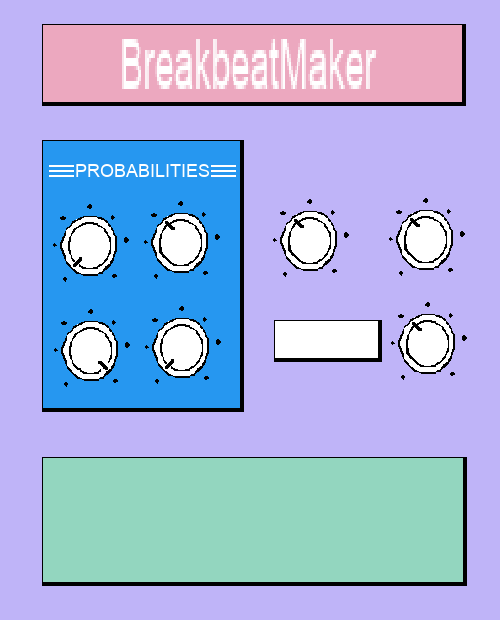
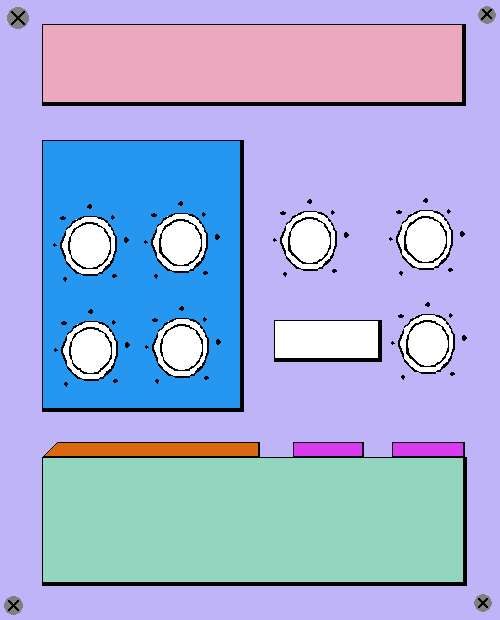
UI::Everything in its right place

diff --git a/code/applications/breakbeat_machine/BreakbeatMaker.cpp b/code/applications/breakbeat_machine/BreakbeatMaker.cpp
@@ -23,6 +23,19 @@ BreakbeatContentComponent::BreakbeatContentComponent(juce::AudioDeviceManager& a
 , mRetriggerSampleProbabilitySlider("Retrigger slice", "%", 0.3)
 , mRecentFiles(recentFiles)
 {
+    LookAndFeel::getDefaultLookAndFeel().setDefaultSansSerifTypefaceName("Retro Gaming");
+    
+    Font titleFont(getLookAndFeel().getLabelFont (mApplicationTitle));
+    titleFont.setHeight(42);
+    titleFont.setTypefaceName("Retro Gaming");
+    mApplicationTitle.setFont(titleFont);
+    addAndMakeVisible(mApplicationTitle);
+    
+    Font probabilityFont(getLookAndFeel().getLabelFont(mProbabilityTitle));
+    probabilityFont.setHeight(35);
+    mProbabilityTitle.setFont(probabilityFont);
+    addAndMakeVisible(mProbabilityTitle);
+    
     addAndMakeVisible(mSliceTypeCombobox);
     mSliceTypeCombobox.comboBox.addItem("Div", 1);
     mSliceTypeCombobox.comboBox.addItem("Transient", 2);
@@ -235,27 +248,27 @@ BreakbeatContentComponent::BreakbeatContentComponent(juce::AudioDeviceManager& a
     
     addAndMakeVisible(mSampleDesiredLengthSeconds);
     mSampleDesiredLengthSeconds.setNumberOfDecimals(3);
-    mSampleDesiredLengthSeconds.setRange({0.1, 10.0}, juce::NotificationType::dontSendNotification);
-    mSampleDesiredLengthSeconds.onValueChanged = [this](double value)
-    {
-        changeState(TransportState::Stopping);
-        mPlayButton.setEnabled(false);
-        
-        auto const stretchFactor = static_cast<float>(value / mAudioSource.getSliceManager().getFileLength());
-        auto const pitchFactor = static_cast<float>(std::pow(2.0, mPitchShiftSlider.getValue() / 12.0));
-        mAudioSource.getSliceManager().performTimestretch(stretchFactor, pitchFactor, [this]()
-        {
-            mPlayButton.setEnabled(true);
-            mAudioSource.getSliceManager().clearSlices();
-            mAudioSource.getSliceManager().performSlice();
-            mAudioSource.setNextReadPosition(0);
-            updateWaveform();
-        });
-        
-        // TODO: Handle this better
-        mAudioSource.getSliceManager().sanitiseSlices();
-    };
-    
+//    mSampleDesiredLengthSeconds.setRange({0.1, 10.0}, juce::NotificationType::dontSendNotification);
+//    mSampleDesiredLengthSeconds.onValueChanged = [this](double value)
+//    {
+//        changeState(TransportState::Stopping);
+//        mPlayButton.setEnabled(false);
+//
+//        auto const stretchFactor = static_cast<float>(value / mAudioSource.getSliceManager().getFileLength());
+//        auto const pitchFactor = static_cast<float>(std::pow(2.0, mPitchShiftSlider.getValue() / 12.0));
+//        mAudioSource.getSliceManager().performTimestretch(stretchFactor, pitchFactor, [this]()
+//        {
+//            mPlayButton.setEnabled(true);
+//            mAudioSource.getSliceManager().clearSlices();
+//            mAudioSource.getSliceManager().performSlice();
+//            mAudioSource.setNextReadPosition(0);
+//            updateWaveform();
+//        });
+//        
+//        // TODO: Handle this better
+//        mAudioSource.getSliceManager().sanitiseSlices();
+//    };
+//    
     addAndMakeVisible(mStopButton);
     mStopButton.setButtonText("Stop");
     mStopButton.onClick = [this]()
@@ -312,61 +325,23 @@ BreakbeatContentComponent::~BreakbeatContentComponent()
 }
 
 void BreakbeatContentComponent::resized()
-{
-    auto bounds = getLocalBounds();
-    bounds.reduce(20, 20);
+{    
+    mApplicationTitle.setBounds(80, 23, 421, 78);
+    mProbabilityTitle.setBounds(50, 155, 178, 38);
     
-    auto const twoFieldRowElementWidth = bounds.getWidth() / 3;
-    auto const twoFieldRowSpacing = bounds.getWidth() - twoFieldRowElementWidth * 2;
+    mReverseSampleProbabilitySlider.setBounds(44, 198, 92, 92);
+    mRetriggerSampleProbabilitySlider.setBounds(134, 198, 92, 92);
+    mChangeSampleProbabilitySlider.setBounds(44, 302, 92, 92);
     
-    auto const threeFieldRowElementWidth = bounds.getWidth() / 4;
-    auto const threeFieldRowSpacing = static_cast<int>((bounds.getWidth() - threeFieldRowElementWidth * 3) / 2.0);
+    mPitchShiftSlider.setBounds(267, 192, 92, 92);
+    mCrossFadeSlider.setBounds(382, 192, 92, 92);
+    mSliceTypeCombobox.setBounds(267, 319, 108, 42);
+    mSliceDivsorSlider.setBounds(382, 295, 92, 92);
     
-    auto firstRowBounds = bounds.removeFromTop(20);
-    mSliceTypeCombobox.setBounds(firstRowBounds.removeFromRight(static_cast<int>(threeFieldRowElementWidth * 1.5)));
-    
-    bounds.removeFromTop(20);
-    
-    auto secondRowBounds = bounds.removeFromTop(100);
-    mPitchShiftSlider.setBounds(secondRowBounds.removeFromLeft(threeFieldRowElementWidth));
-    secondRowBounds.removeFromLeft(threeFieldRowSpacing);
-    mCrossFadeSlider.setBounds(secondRowBounds.removeFromLeft(threeFieldRowElementWidth));
-    secondRowBounds.removeFromLeft(threeFieldRowSpacing);
-    mSliceDivsorSlider.setBounds(secondRowBounds.removeFromLeft(threeFieldRowElementWidth));
-    mSliceTransientThresholdSlider.setBounds(mSliceDivsorSlider.getBounds());
-    
-    bounds.removeFromTop(20);
-    
-    auto thirdRowBounds = bounds.removeFromTop(100);
-    mChangeSampleProbabilitySlider.setBounds(thirdRowBounds.removeFromLeft(threeFieldRowElementWidth));
-    thirdRowBounds.removeFromLeft(threeFieldRowSpacing);
-    mRetriggerSampleProbabilitySlider.setBounds(thirdRowBounds.removeFromLeft(threeFieldRowElementWidth));
-    thirdRowBounds.removeFromLeft(threeFieldRowSpacing);
-    mReverseSampleProbabilitySlider.setBounds(thirdRowBounds.removeFromLeft(threeFieldRowElementWidth));
-    
-    bounds.removeFromTop(20);
-    
-    auto fourthRowBounds = bounds.removeFromTop(220);
-    mWaveformComponent.setBounds(fourthRowBounds.removeFromTop(200));
-    mFileNameLabel.setBounds(fourthRowBounds.removeFromLeft(twoFieldRowElementWidth));
-    fourthRowBounds.removeFromLeft(twoFieldRowSpacing);
-    mFileSampleRateLabel.setBounds(fourthRowBounds.removeFromLeft(twoFieldRowElementWidth));
-    
-    bounds.removeFromTop(20);
-    
-    auto fifthRowBounds = bounds.removeFromTop(20);
-    mSampleLengthSeconds.setBounds(fifthRowBounds.removeFromLeft(twoFieldRowElementWidth));
-    fifthRowBounds.removeFromLeft(twoFieldRowSpacing);
-    mSampleDesiredLengthSeconds.setBounds(fifthRowBounds.removeFromLeft(twoFieldRowElementWidth));
-    
-    bounds.removeFromTop(20);
-    
-    auto sixthRowBounds = bounds.removeFromTop(20);
-    mPlayButton.setBounds(sixthRowBounds.removeFromLeft(threeFieldRowElementWidth));
-    sixthRowBounds.removeFromLeft(threeFieldRowSpacing);
-    mRecordButton.setBounds(sixthRowBounds.removeFromLeft(threeFieldRowElementWidth));
-    sixthRowBounds.removeFromLeft(threeFieldRowSpacing);
-    mStopButton.setBounds(sixthRowBounds.removeFromLeft(threeFieldRowElementWidth));
+    mFileNameLabel.setBounds(55, 439, 200, 19);
+    mSampleLengthSeconds.setBounds(310, 439, 50, 19);
+    mSampleDesiredLengthSeconds.setBounds(395, 439, 80, 19);
+    mWaveformComponent.setBounds(44, 454, 418, 121);
 }
 
 void BreakbeatContentComponent::paint(juce::Graphics& g)
@@ -449,12 +424,12 @@ void BreakbeatContentComponent::handleAsyncUpdate()
     mFileNameLabel.setText(mAudioSource.getSliceManager().getSampleFileName(), juce::NotificationType::dontSendNotification);
     mFileSampleRateLabel.setText(juce::String(mAudioSource.getSliceManager().getSampleSampleRate()), juce::NotificationType::dontSendNotification);
     
-    mSampleLengthSeconds.setValue(mAudioSource.getSliceManager().getFileLength(), juce::NotificationType::sendNotification);
+    mSampleLengthSeconds.setText(juce::String(mAudioSource.getSliceManager().getFileLength()), juce::NotificationType::sendNotification);
     
     auto const pitchFactor = static_cast<float>(std::pow(2.0, mPitchShiftSlider.getValue() / 12.0));
     mAudioSource.getSliceManager().performTimestretch(1.0f, pitchFactor, [this]()
     {
-        mSampleDesiredLengthSeconds.setValue(mAudioSource.getSliceManager().getBufferLength(), juce::NotificationType::dontSendNotification);
+        mSampleDesiredLengthSeconds.setText(juce::String(mAudioSource.getSliceManager().getBufferLength()), juce::NotificationType::dontSendNotification);
         mPlayButton.setEnabled(true);
         mAudioSource.getSliceManager().performSlice();
         mAudioSource.setNextReadPosition(0);

diff --git a/code/ui/CustomLookAndFeel.cpp b/code/ui/CustomLookAndFeel.cpp
@@ -1,5 +1,22 @@
 #include "CustomLookAndFeel.h"
 
+CustomLookAndFeel::CustomLookAndFeel()
+{
+    setColour (ComboBox::backgroundColourId, Colours::transparentBlack);
+    setColour (ComboBox::buttonColourId, Colours::transparentBlack);
+    setColour (ComboBox::arrowColourId, Colours::white);
+    setColour (ComboBox::textColourId, Colours::black);
+    setColour (ComboBox::outlineColourId, Colours::transparentBlack);
+    
+    setColour (PopupMenu::backgroundColourId, Colours::black);
+    setColour (PopupMenu::highlightedBackgroundColourId, Colours::black);
+    setColour (PopupMenu::highlightedTextColourId, Colours::white);
+    setColour (PopupMenu::textColourId, Colours::white.withAlpha (0.8f));
+    setColour (PopupMenu::headerTextColourId, Colours::white);
+    
+    setDefaultSansSerifTypefaceName("Avenir Next");
+}
+
 void CustomLookAndFeel::drawRotarySlider (juce::Graphics& g,
                                           int x, int y, int width, int height,
                                           float sliderPosProportional,
@@ -9,11 +26,11 @@ void CustomLookAndFeel::drawRotarySlider (juce::Graphics& g,
 {
     auto bounds = juce::Rectangle<float>(x, y, width, height);
     
-    g.setColour(juce::Colour(97u, 18u, 167u));
-    g.fillEllipse(bounds);
-    
-    g.setColour(juce::Colour(255u, 154u, 1u));
-    g.drawEllipse(bounds, 1.0f);
+//    g.setColour(juce::Colour(97u, 18u, 167u));
+//    g.fillEllipse(bounds);
+//
+//    g.setColour(juce::Colour(255u, 154u, 1u));
+//    g.drawEllipse(bounds, 1.0f);
     
     if(auto* rswl = dynamic_cast<RotarySliderWithLabels*>(&slider))
     {
@@ -67,7 +84,7 @@ void RotarySliderWithLabels::paint(juce::Graphics& g)
         r.setSize(g.getCurrentFont().getStringWidth(sliderLabel), getTextHeight());
         r.setCentre(getLocalBounds().getCentre().getX(), 0);
         r.setY(2);
-        g.setColour(juce::Colour(0u, 172u, 1u));
+        g.setColour(juce::Colours::black);
         g.setFont(getTextHeight());
         g.drawFittedText(sliderLabel, r.toNearestInt(), juce::Justification::centred, 1);
         
@@ -85,7 +102,7 @@ void RotarySliderWithLabels::paint(juce::Graphics& g)
     auto center = sliderBounds.toFloat().getCentre();
     auto radius = sliderBounds.getWidth() * 0.5f;
     
-    g.setColour(juce::Colour(0u, 172u, 1u));
+    g.setColour(juce::Colours::black);
     g.setFont(getTextHeight());
     
     auto const numChoices = mLabels.size();
@@ -123,7 +140,7 @@ juce::Rectangle<int> RotarySliderWithLabels::getSliderBounds() const
 
 int RotarySliderWithLabels::getTextHeight() const
 {
-    return 14;
+    return 12;
 }
 
 juce::String RotarySliderWithLabels::getDisplayString() const
@@ -266,7 +283,20 @@ ComboBoxWithLabel::ComboBoxWithLabel(juce::String const& paramName)
     mParamLabel.setText(paramName, juce::NotificationType::dontSendNotification);
     addAndMakeVisible(mParamLabel);
     
+    mParamLabel.setColour(Label::textColourId, juce::Colours::black);
+    
+//    auto curLookAndFeel = comboBox.getLookAndFeel();
+//    curLookAndFeel.
+    
     addAndMakeVisible(comboBox);
+    
+//    auto* rootPopup = comboBox.getRootMenu();
+//    if(!rootPopup)
+//    {
+//        return;
+//    }
+//
+//    rootPopup->setLookAndFeel(<#LookAndFeel *newLookAndFeel#>)
 }
 
 void ComboBoxWithLabel::resized()
@@ -276,4 +306,27 @@ void ComboBoxWithLabel::resized()
     mParamLabel.setBounds(bounds.removeFromLeft(static_cast<int>(bounds.getWidth() * 0.45)));
     bounds.removeFromLeft(static_cast<int>(2));
     comboBox.setBounds(bounds);
+}
+
+void ComboBoxWithLabel::paint(juce::Graphics& g)
+{
+    auto const width = getWidth();
+    auto const height = getHeight();
+//    auto cornerSize = findParentComponentOfClass<ChoicePropertyComponent>() != nullptr ? 0.0f : 3.0f;
+    Rectangle<int> boxBounds (0, 0, width, height);
+
+//    g.setColour (findColour (ComboBox::backgroundColourId));
+//    g.fillRoundedRectangle (boxBounds.toFloat(), cornerSize);
+
+//    g.setColour (findColour (ComboBox::outlineColourId));
+//    g.drawRoundedRectangle (boxBounds.toFloat().reduced (0.5f, 0.5f), cornerSize, 1.0f);
+
+    Rectangle<int> arrowZone (width - 30, 0, 20, height);
+    Path path;
+    path.startNewSubPath ((float) arrowZone.getX() + 3.0f, (float) arrowZone.getCentreY() - 2.0f);
+    path.lineTo ((float) arrowZone.getCentreX(), (float) arrowZone.getCentreY() + 3.0f);
+    path.lineTo ((float) arrowZone.getRight() - 3.0f, (float) arrowZone.getCentreY() - 2.0f);
+
+    g.setColour (findColour (ComboBox::arrowColourId).withAlpha ((isEnabled() ? 0.9f : 0.2f)));
+    g.strokePath (path, PathStrokeType (2.0f));
 }

diff --git a/code/applications/breakbeat_machine/BreakbeatMaker.h b/code/applications/breakbeat_machine/BreakbeatMaker.h
@@ -97,11 +97,13 @@ private:
     RotarySliderWithLabels mReverseSampleProbabilitySlider;
     RotarySliderWithLabels mRetriggerSampleProbabilitySlider;
     
+    juce::Label mApplicationTitle { "BreakbeatMaker", "Breakbeat Maker" };
+    juce::Label mProbabilityTitle { "Probaility", "Probabilities" };
     juce::Label mFileNameLabel;
     juce::Label mFileSampleRateLabel;
     
-    NumberFieldWithLabel mSampleLengthSeconds {"File Length", "s", 3, false};
-    NumberFieldWithLabel mSampleDesiredLengthSeconds {"New Length", "s", 3, true};
+    NumberField mSampleLengthSeconds {"s", 3, false};
+    NumberField mSampleDesiredLengthSeconds {"s", 3, true};
     
     juce::TextButton mStopButton;
     juce::TextButton mPlayButton;

diff --git a/code/ui/CustomLookAndFeel.h b/code/ui/CustomLookAndFeel.h
@@ -5,6 +5,8 @@
 class CustomLookAndFeel : public juce::LookAndFeel_V4
 {
 public:
+    CustomLookAndFeel();
+    
     void drawRotarySlider (juce::Graphics&,
                            int x, int y, int width, int height,
                            float sliderPosProportional,
@@ -95,10 +97,12 @@ public:
     ComboBoxWithLabel(juce::String const& paramName);
     ComboBoxWithLabel() = default;
     
+    void paint(juce::Graphics& g) override;
     void resized() override;
     
     juce::ComboBox comboBox;
 private:
+    
     juce::Label mParamLabel;
     
 };
